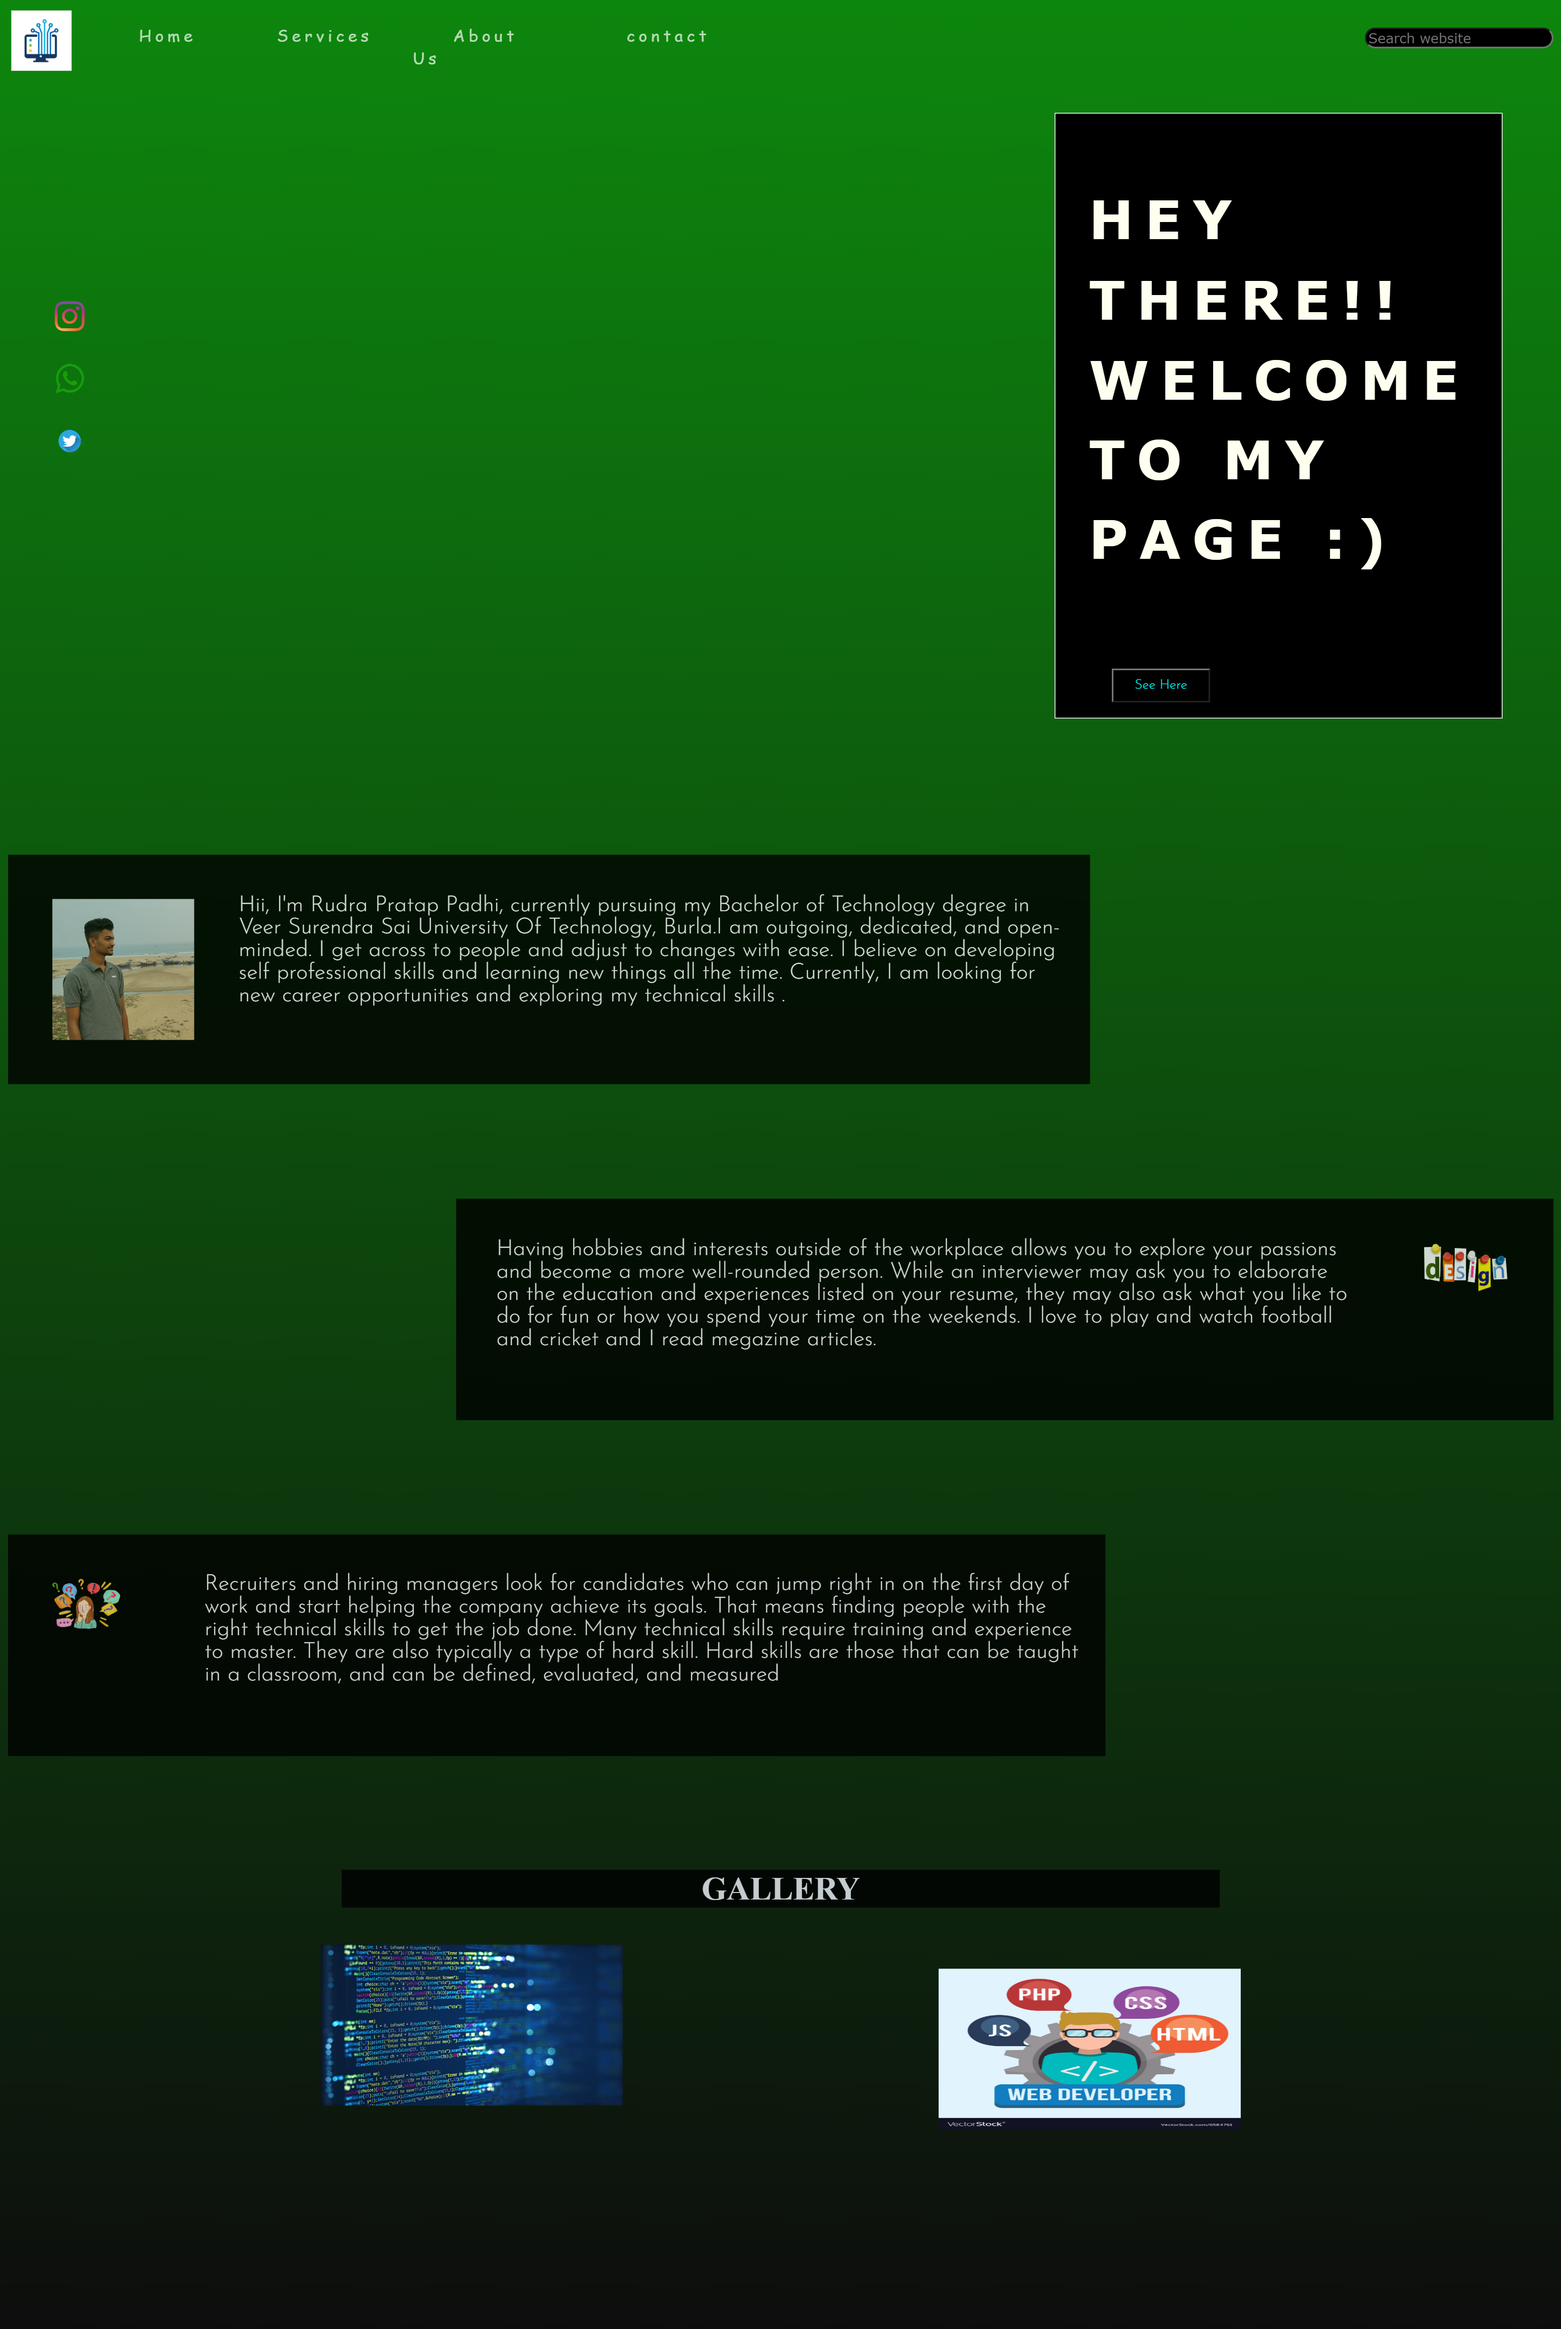
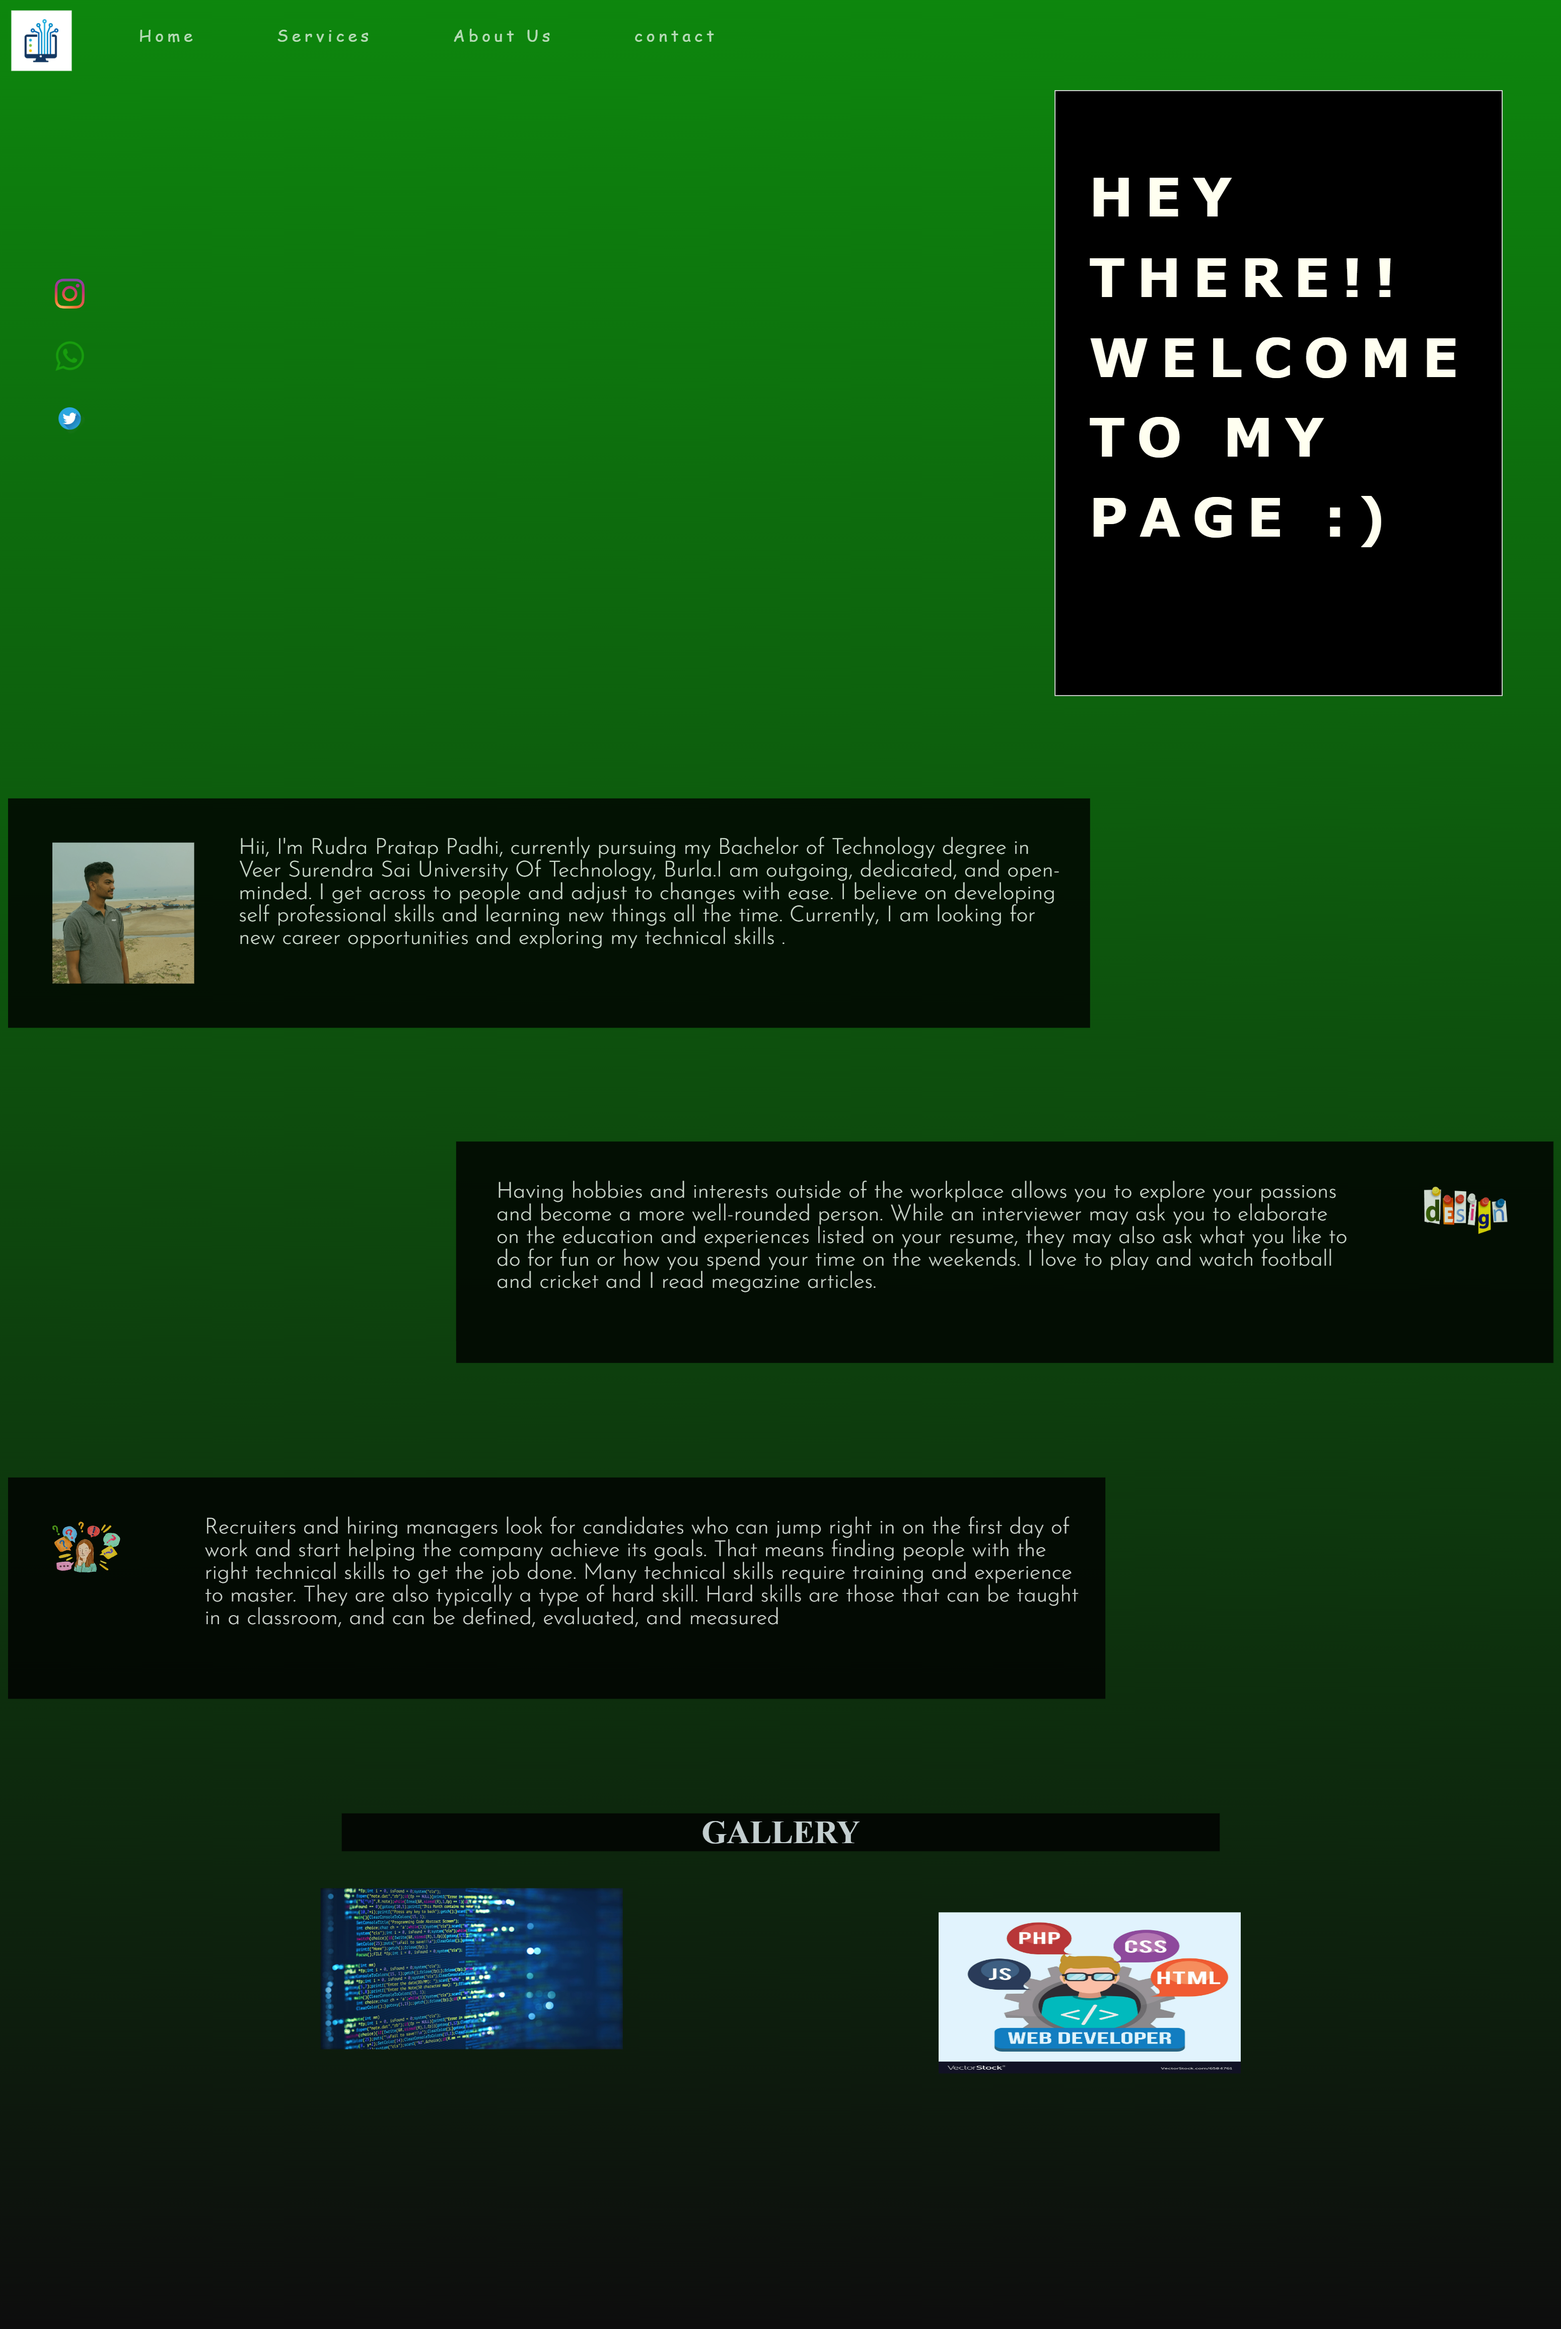
web dev task 1 completed

diff --git a/Web Development/Task-1/Task Submission/Rudra Pratap Padhi/index.html b/Web Development/Task-1/Task Submission/Rudra Pratap Padhi/index.html
@@ -25,7 +25,6 @@
             </ul>
         </div>
         <div>
-            <input type="text"name="search"id="search"placeholder="Search website">
         </div>
     </nav>
 
@@ -37,7 +36,6 @@
                <li><a href="https://www.twitter.com"><img src="https://freepngimg.com/thumb/logo/62860-logo-twitter-computer-icons-free-photo-png.png" alt="error image"></a></li>
             </ul>
             <h5> HEY THERE!! WELCOME TO MY PAGE :) </h5>
-            <input type="submit"value="See Here">
 
         </div>
         <div id="about">
